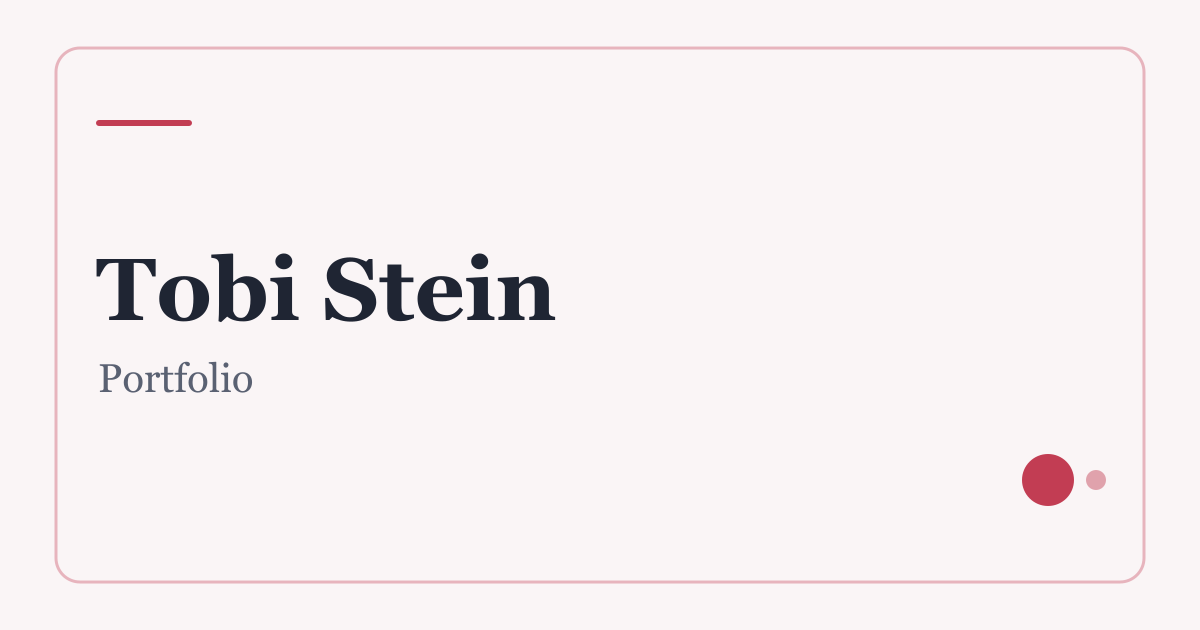
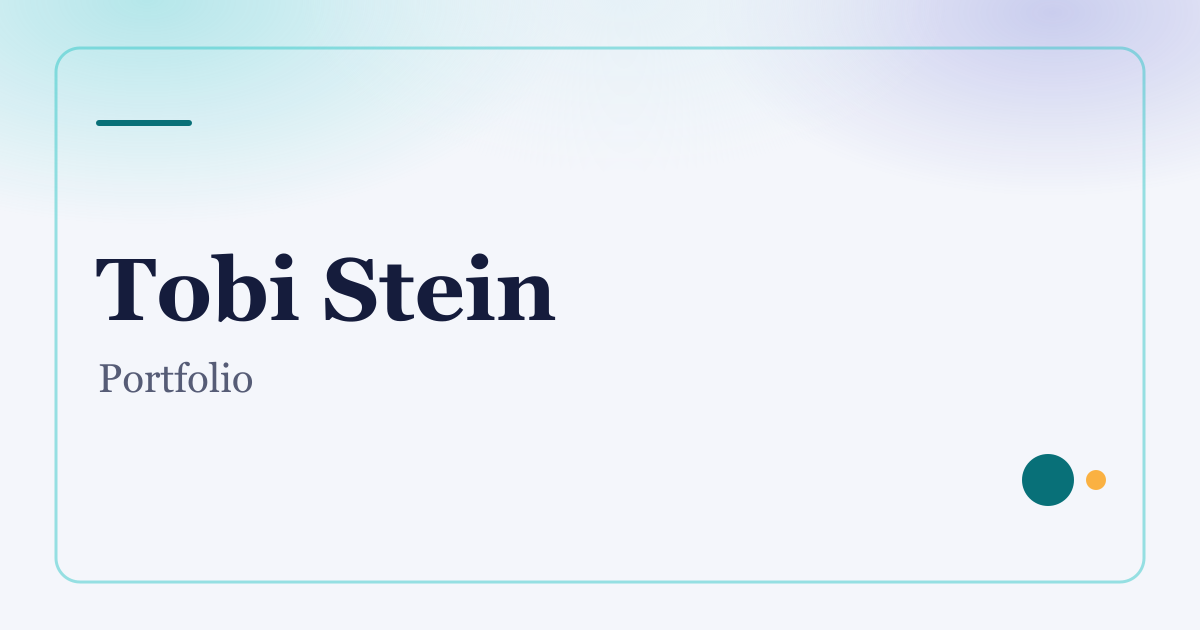
feat: new theme abysse

Changed region(s): [[0.0, 0.0, 1.0, 0.9349]]

diff --git a/uno.config.ts b/uno.config.ts
@@ -38,7 +38,7 @@ const typography: TypographyOptions = {
     bullets: 'hsl(var(--ink-soft) / 0.5)',
     hr: 'hsl(var(--line) / 1)',
     quotes: inkSoft,
-    'quote-borders': 'hsl(var(--accent) / 0.45)',
+    'quote-borders': 'hsl(var(--accent-2) / 0.55)',
     kbd: ink,
     code: ink,
     'pre-code': inkSoft,
@@ -84,7 +84,7 @@ const typography: TypographyOptions = {
       'font-weight': '500',
       color: ink,
       'text-decoration': 'underline',
-      'text-decoration-color': 'hsl(var(--accent) / 0.45)',
+      'text-decoration-color': 'hsl(var(--accent-vivid) / 0.6)',
       'text-decoration-thickness': '1px',
       'text-underline-offset': '0.18em',
       transition: 'color 0.2s ease, text-decoration-color 0.2s ease',
@@ -92,7 +92,7 @@ const typography: TypographyOptions = {
     },
     '.prose a:hover,.prose a:focus-visible': {
       color: accent,
-      'text-decoration-color': 'hsl(var(--accent) / 0.9)'
+      'text-decoration-color': 'hsl(var(--accent) / 1)'
     },
     '.prose :is(h1,h2,h3,h4,h5,h6)>a': { 'text-decoration': 'none' },
 
@@ -116,7 +116,7 @@ const typography: TypographyOptions = {
       'font-family': 'var(--font-serif)',
       'font-style': 'normal',
       'font-weight': '400',
-      'border-inline-start': '2px solid hsl(var(--accent) / 0.35)',
+      'border-inline-start': '2px solid hsl(var(--accent-2) / 0.55)',
       'border-radius': '0',
       'background-color': 'transparent',
       'box-shadow': 'none',
@@ -139,7 +139,7 @@ const typography: TypographyOptions = {
       width: '0.38em',
       height: '0.38em',
       'border-radius': '999px',
-      'background-color': 'hsl(var(--accent) / 0.6)'
+      'background-color': 'hsl(var(--accent-vivid) / 1)'
     },
     '.prose ol': {
       'list-style': 'none',
@@ -160,7 +160,7 @@ const typography: TypographyOptions = {
       'font-family': 'var(--font-serif)',
       'font-weight': '600',
       'font-size': '0.88em',
-      color: 'hsl(var(--accent) / 0.85)',
+      color: 'hsl(var(--accent-2) / 1)',
       'min-width': '1.5em',
       'text-align': 'end'
     },
@@ -255,8 +255,13 @@ export default defineConfig({
       // Muted surface
       wash: 'hsl(var(--wash) / <alpha-value>)',
       card: 'hsl(var(--card) / <alpha-value>)',
-      // Accent (brand)
+      // Accents (brand): primary teal, then the abysse extras — vivid teal (decor only,
+      // never text on light backgrounds), text on solid accent, periwinkle, amber glow
       accent: 'hsl(var(--accent) / <alpha-value>)',
+      'accent-vivid': 'hsl(var(--accent-vivid) / <alpha-value>)',
+      'accent-fg': 'hsl(var(--accent-fg) / <alpha-value>)',
+      'accent-2': 'hsl(var(--accent-2) / <alpha-value>)',
+      glow: 'hsl(var(--glow) / <alpha-value>)',
       ring: 'hsl(var(--ring) / <alpha-value>)',
       // Borders
       line: 'hsl(var(--line) / <alpha-value>)'
@@ -274,9 +279,13 @@ export default defineConfig({
       'inline-flex min-h-6 items-center gap-1 text-xs text-ink-soft underline-offset-4 transition-colors duration-200 hover:text-accent hover:underline focus-visible:text-accent focus-visible:underline',
     // Paper card
     'paper-card':
-      'rounded-xl border border-line bg-card/60 transition-all duration-300 hover:border-accent/40 hover:shadow-sm',
-    // Pill chip (tags, meta)
-    chip: 'inline-flex items-center gap-1 rounded-full border border-line bg-wash px-2.5 py-0.5 text-xs text-ink-soft transition-colors duration-200 hover:border-accent/50 hover:text-accent',
+      'rounded-xl border border-line bg-card/60 transition-all duration-300 hover:border-accent-vivid/60 hover:shadow-[0_2px_14px_hsl(var(--accent-vivid)/0.12)]',
+    // Tag label: same pill shape as `chip`, periwinkle (--accent-2) and no hover,
+    // so it reads as information, not as a button
+    'tag-pill':
+      'inline-flex items-center rounded-full border border-accent-2/20 bg-accent-2/10 px-2.5 py-0.5 text-xs text-accent-2',
+    // Pill chip (clickable: back links, project buttons…)
+    chip: 'inline-flex items-center gap-1 rounded-full border border-accent/18 bg-accent/10 px-2.5 py-0.5 text-xs text-accent transition-colors duration-200 hover:border-accent/50 hover:bg-accent/16',
     // Text link with underline animation
     'link-ink':
       'underline decoration-accent/35 underline-offset-4 transition-colors hover:text-accent hover:decoration-accent/80',

diff --git a/src/assets/styles/tokens.css b/src/assets/styles/tokens.css
@@ -2,38 +2,56 @@
    astro-theme-ink · design tokens
    Two built-in palettes (switch via the header palette button or
    `site.palette` in site-config.ts):
-     - ink    : warm paper (default)
-     - fresh  : cool mint, light & airy
+     - abysse : deep blue-green, periwinkle & amber glow (default)
+     - fresh  : haze blue, muted & airy
    Each palette has a light and a dark variant. All colors are HSL
    triplets consumed through the CSS variables below.
+   abysse lives on :root / .dark (also the fallback when JavaScript is
+   off) and is what every component is styled with; fresh only swaps
+   the base colors through the `.fresh` class.
    ============================================================ */
 
-/* ---- Palette: ink (warm paper) · light ---- */
+/* ---- Palette: abysse · light ---- */
 :root {
   color-scheme: light;
 
-  --paper: 345 30% 97%;
-  --card: 345 35% 99%;
-  --ink: 220 25% 16%;
-  --ink-soft: 222 12% 40%;
-  --wash: 345 24% 93%;
-  --accent: 350 52% 50%;
-  --ring: 350 52% 50%;
-  --line: 345 18% 88%;
+  --paper: 220 45% 97%;
+  --card: 220 60% 99%;
+  --ink: 230 48% 16%;
+  --ink-soft: 228 16% 40%;
+  --wash: 196 50% 92%;
+  --accent: 184 88% 25%;
+  --ring: 184 88% 25%;
+  --line: 214 32% 86%;
+
+  /* abysse extras (fresh inherits them) */
+  /* Decor only (glows, bullets, underlines…) — never text in light mode (2:1) */
+  --accent-vivid: 180 70% 45%;
+  /* Text on a solid --accent background */
+  --accent-fg: 220 60% 99%;
+  /* Periwinkle: second glow, quote borders, ordered-list numbers */
+  --accent-2: 236 52% 52%;
+  /* Amber spark: <mark> at 35 % opacity, "new" dot — never text */
+  --glow: 36 95% 62%;
 }
 
-/* ---- Palette: dusk · dark ---- */
+/* ---- Palette: abysse · dark ---- */
 .dark {
   color-scheme: dark;
 
-  --paper: 222 26% 9%;
-  --card: 222 22% 12%;
-  --ink: 45 40% 92%;
-  --ink-soft: 225 12% 68%;
-  --wash: 222 18% 15%;
-  --accent: 46 82% 70%;
-  --ring: 46 82% 70%;
-  --line: 222 15% 21%;
+  --paper: 228 48% 8%;
+  --card: 226 40% 12%;
+  --ink: 34 55% 92%;
+  --ink-soft: 222 22% 72%;
+  --wash: 220 38% 16%;
+  --accent: 178 62% 56%;
+  --ring: 178 62% 56%;
+  --line: 222 30% 23%;
+
+  --accent-vivid: 176 75% 62%;
+  --accent-fg: 228 48% 8%;
+  --accent-2: 234 85% 78%;
+  --glow: 38 95% 66%;
 }
 
 /* ---- Palette: fresh (haze blue, muted & airy) · light ---- */
@@ -85,5 +103,5 @@
 
 /* Selection: ink on accent */
 ::selection {
-  background-color: hsl(var(--accent) / 0.22);
+  background-color: hsl(var(--accent-vivid) / 0.25);
 }

diff --git a/src/scripts/theme.js b/src/scripts/theme.js
@@ -17,18 +17,19 @@
     }
   }
   const modes = ['system', 'light', 'dark']
-  const palettes = ['ink', 'fresh']
+  // The first palette is the fallback; each one adds its name as a class on <html>
+  const palettes = ['abysse', 'fresh']
   const storedTheme = read('ink-theme')
   const storedPalette = read('ink-palette')
   let theme = modes.includes(storedTheme) ? storedTheme : root.dataset.defaultTheme
   let palette = palettes.includes(storedPalette) ? storedPalette : root.dataset.defaultPalette
   if (!modes.includes(theme)) theme = 'system'
-  if (!palettes.includes(palette)) palette = 'ink'
+  if (!palettes.includes(palette)) palette = palettes[0]
 
   const apply = () => {
     const dark = theme === 'dark' || (theme === 'system' && systemTheme.matches)
     root.classList.toggle('dark', dark)
-    root.classList.toggle('fresh', palette === 'fresh')
+    for (const name of palettes) root.classList.toggle(name, name === palette)
     root.dataset.theme = theme
     root.dataset.palette = palette
     const background = root.getAttribute(`data-bg-${palette}-${dark ? 'dark' : 'light'}`)
@@ -54,7 +55,7 @@
       save('ink-theme', theme)
       transition()
     } else if (event.target.closest('#palette-toggle')) {
-      palette = palette === 'ink' ? 'fresh' : 'ink'
+      palette = palettes[(palettes.indexOf(palette) + 1) % palettes.length]
       save('ink-palette', palette)
       transition()
     }

diff --git a/src/assets/styles/global.css b/src/assets/styles/global.css
@@ -13,6 +13,9 @@ body {
   font-family: var(--font-sans);
   -webkit-font-smoothing: antialiased;
   text-rendering: optimizeLegibility;
+  /* Own stacking context: #ambient (z-index: -1) is drawn above the body's
+     paper background but below the content — otherwise the background hides it */
+  isolation: isolate;
 }
 
 /* Visible keyboard focus (accent ring) for accessibility */
@@ -30,8 +33,8 @@ body {
   pointer-events: none;
   z-index: -1;
   background:
-    radial-gradient(55% 55% at 12% 0%, hsl(var(--accent) / 0.12), transparent 65%),
-    radial-gradient(45% 45% at 88% 2%, hsl(var(--accent) / 0.1), transparent 65%),
+    radial-gradient(55% 55% at 12% 0%, hsl(var(--accent-vivid) / 0.18), transparent 65%),
+    radial-gradient(45% 45% at 88% 2%, hsl(var(--accent-2) / 0.14), transparent 65%),
     radial-gradient(38% 38% at 52% 0%, hsl(var(--wash) / 0.7), transparent 72%);
 }
 
@@ -368,7 +371,7 @@ hr {
 
 /* Highlighted text (<mark>) */
 mark {
-  background-color: hsl(var(--accent) / 0.18);
+  background-color: hsl(var(--glow) / 0.35);
   color: inherit;
   border-radius: 0.2em;
   padding-inline: 0.1em;

diff --git a/src/site-config.ts b/src/site-config.ts
@@ -48,8 +48,8 @@ export interface Config {
     avatar: string
     /** Open Graph image (link previews); a path under `public/` */
     ogImage: string
-    /** Default color palette for first-time visitors: 'ink' | 'fresh' */
-    palette: 'ink' | 'fresh'
+    /** Default color palette for first-time visitors: 'abysse' | 'fresh' */
+    palette: 'abysse' | 'fresh'
     /** Default theme for first-time visitors: 'light' | 'dark' | 'system' (follow OS) */
     theme: 'light' | 'dark' | 'system'
     /** Separator between page title and site title, e.g. " · " */
@@ -125,7 +125,7 @@ export const config: Config = {
     favicon: '/favicon/favicon.ico',
     avatar: '/avatar2.png',
     ogImage: '/og-card.png',
-    palette: 'fresh',
+    palette: 'abysse',
     theme: 'system',
     titleDelimiter: ' · '
   },

diff --git a/src/utils/theme.ts b/src/utils/theme.ts
@@ -1,8 +1,8 @@
-/** Built-in color palettes ("ink", customized to dusk rose / night blue, and "fresh").
+/** Built-in color palettes ("abysse", the default, and "fresh").
  *  Hex values are the exact conversion of the `--paper` tokens in
  *  `src/assets/styles/tokens.css` (kept in sync manually). */
 export const THEME_COLORS = {
-  ink: { light: '#faf5f6', dark: '#11151d' },
+  abysse: { light: '#f4f6fb', dark: '#0b0f1e' },
   fresh: { light: '#f5f7fa', dark: '#11161d' }
 } as const
 

diff --git a/README.md b/README.md
@@ -41,7 +41,12 @@ Le serveur de développement répond sur <http://localhost:4321>.
 
 Dans `src/site-config.ts`, les textes visibles s’écrivent une fois par langue : `{ fr: '…', en: '…' }`. **Un champ laissé vide (`''`, `[]`) est simplement masqué sur le site** : remplissez-le quand vous êtes prêt (liens GitHub / LinkedIn / e-mail, formation, etc.).
 
-Couleurs : la palette personnalisée est le bloc **ink** de `tokens.css` (`:root` pour le mode clair, `.dark` pour le mode sombre). La palette proposée par défaut aux nouveaux visiteurs est réglée par `site.palette`, qui vaut actuellement `'fresh'` : passez-la à `'ink'` pour afficher vos couleurs par défaut. Le bouton palette de l’en-tête permet toujours de basculer de l’une à l’autre.
+Couleurs : deux palettes, chacune en version claire et sombre, dans `src/assets/styles/tokens.css` :
+
+- **abysse** (palette par défaut) : blocs `:root` (clair) et `.dark` (sombre). En plus des 8 couleurs de base, elle définit `--accent-vivid` (bleu-vert vif, décor uniquement, jamais en texte en mode clair), `--accent-fg` (texte sur fond `--accent` plein), `--accent-2` (pervenche) et `--glow` (lueur ambrée, jamais en texte). Tous les composants sont stylés avec ces couleurs : halo d’en-tête (`#ambient`), surlignage (`mark`) et sélection dans `global.css` / `tokens.css`, pastilles (`chip`, `tag-pill`), cartes (`paper-card`) et texte des articles (liens, listes, citations) dans `uno.config.ts`.
+- **fresh** : blocs `.fresh` et `.fresh.dark`.
+
+`site.palette` choisit la palette affichée aux nouveaux visiteurs (`'abysse'`) ; le bouton palette de l’en-tête (vagues / feuille) permet de basculer. Classes UnoCSS disponibles : `text-accent`, `text-accent-2`, `border-accent-vivid/60`, `bg-glow/35`, etc.
 
 ## Ajouter un article ou un projet
 
